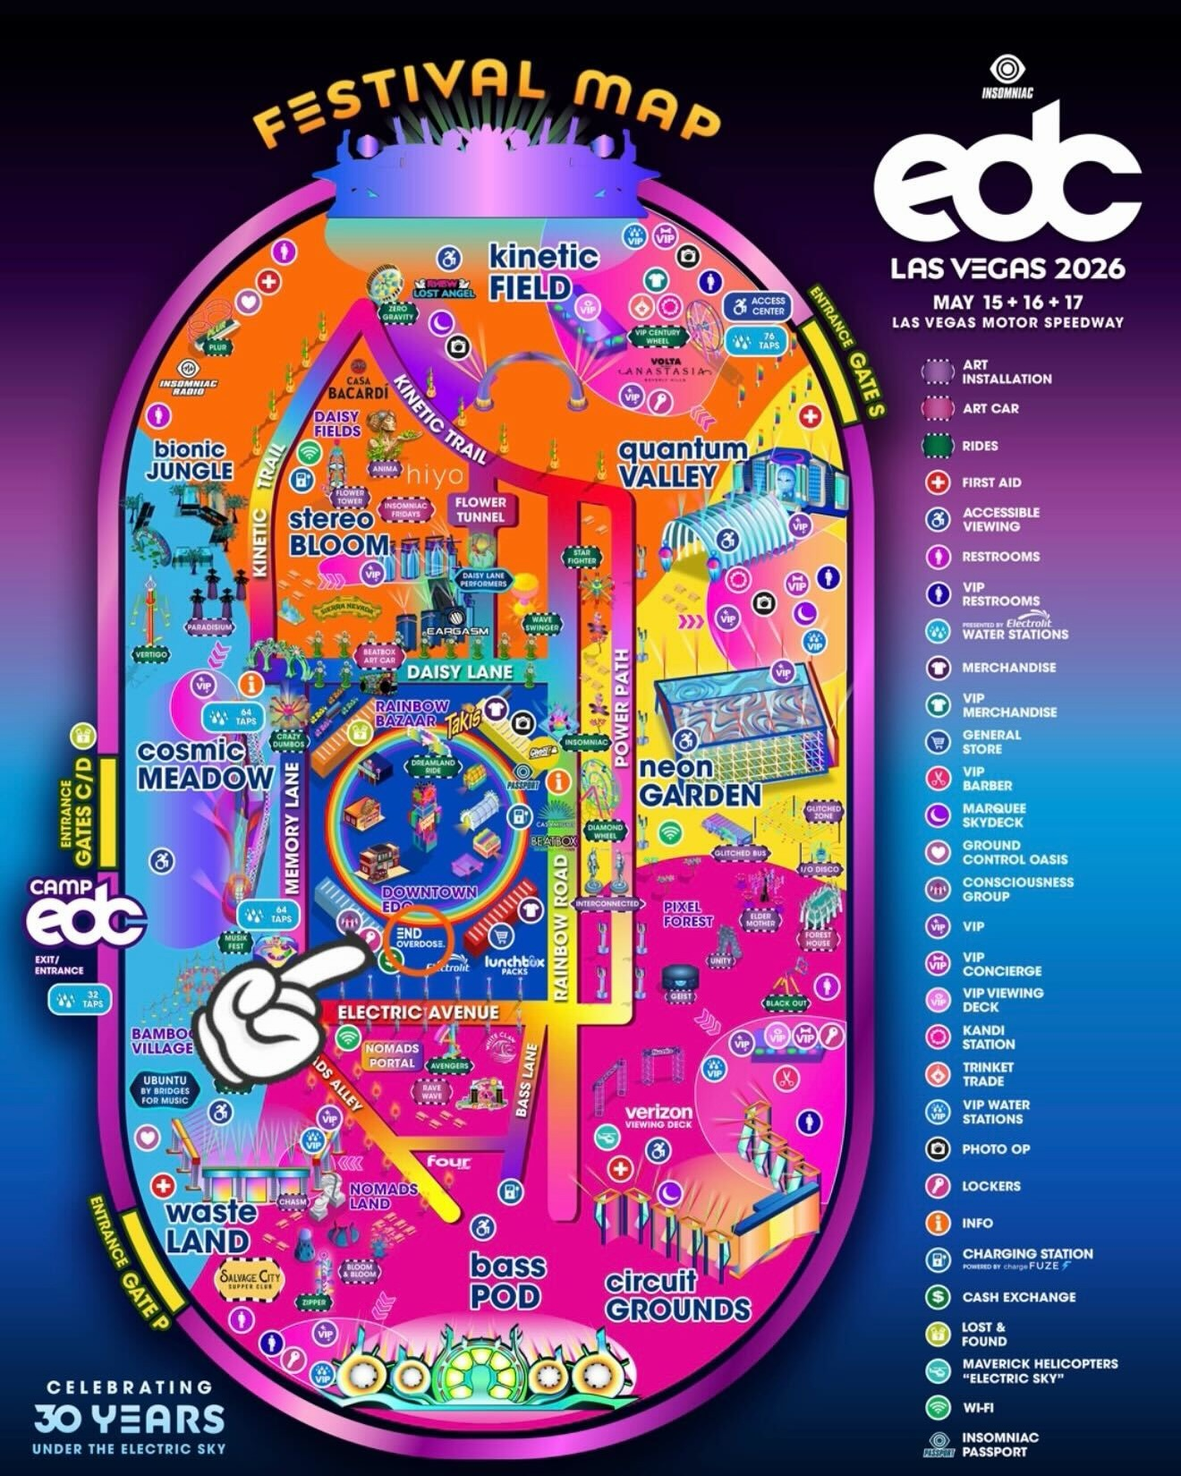
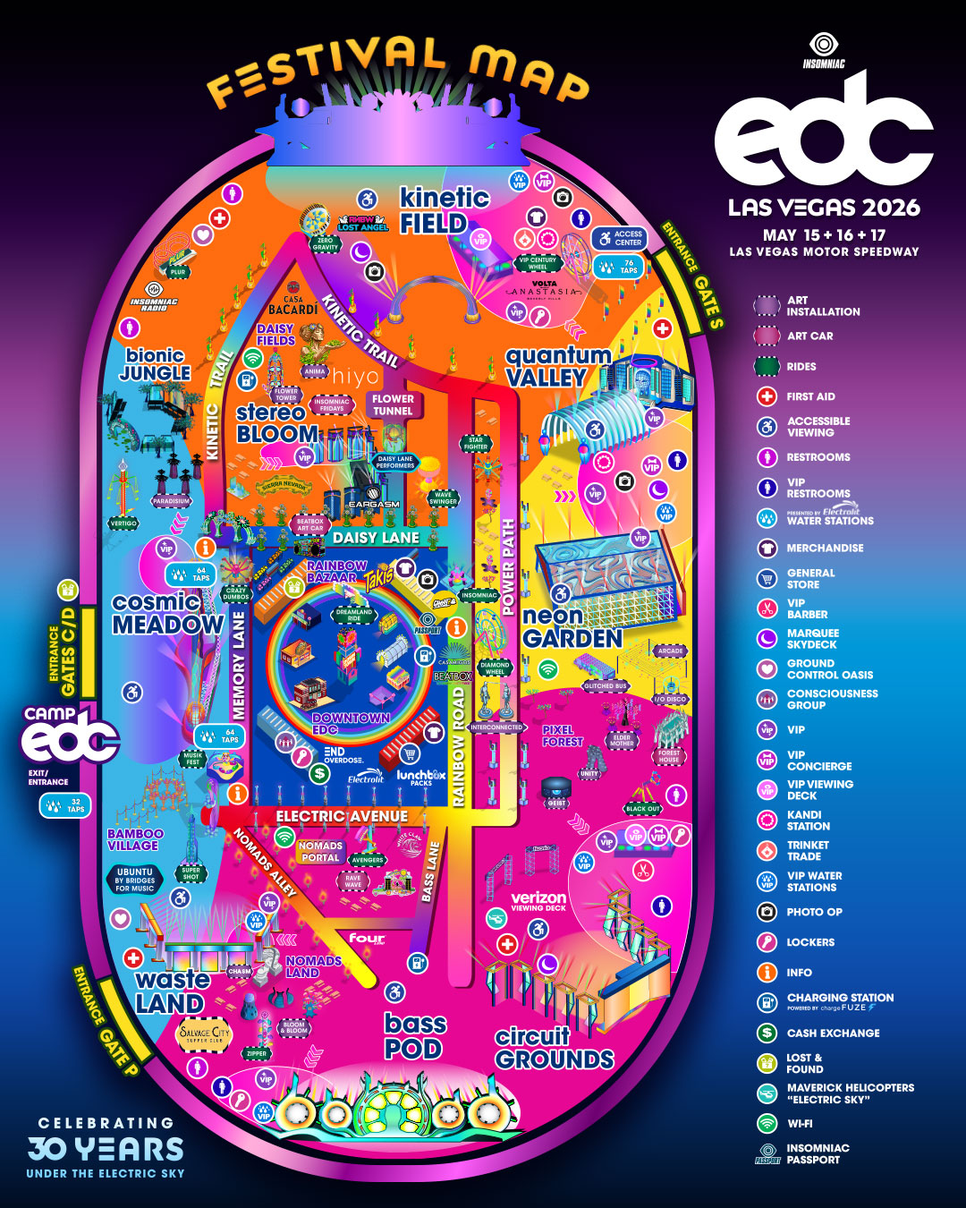
fix(map): EDC pins measured off the poster; anchors proven wrong (v238) (#36)
* feat(data): multi-festival wave 1 — five retrospective 2026 builds (v237)

Onboards Ultra Miami, Governors Ball, Summerfest, Lollapalooza and Outside
Lands at full EDC-schema depth: 1,005 set times across 36 stages, all
available: true, no provisional flags. Every one of these festivals is in the
past, so the whole data layer is published historical fact.

Sourcing is primary wherever it exists. Ultra, Gov Ball, Lolla and Summerfest
come from the festivals' own schedule graphics; Outside Lands' official lineup
page was taken down after the event, so that one is press capture, flagged as
secondary in its module header and cross-checked against three outlets.
Every non-obvious fact carries a source comment with an access date.

Two of the graphics record days that did not run as billed, and the data
follows what happened rather than what was announced: Gov Ball Saturday was
cut short by a thunderstorm (two sets cancelled, Stray Kids and Major Lazer
moved, Blood Orange pushed to Sunday), and Lollapalooza Saturday opened at
3pm on a weather hold.

Summerfest's graphics print start times only, but the block behind each name
is drawn to scale. Rather than assume a slot length, every block on all nine
graphics was measured: located by scanning its stage column for runs of
non-background pixels, calibrated against the start times printed on the same
graphic by least squares, then read off the bottom edge. 429 of 447 end times
[…]

diff --git a/data.jsx b/data.jsx
@@ -122,6 +122,24 @@ const FESTIVAL_CONFIG = {
     ovalCenter:    { lat: 36.27155,   lng: -115.01120 },
     // Full EDC build footprint (oval + dirt extension + south lots)
     festivalBounds:{ north: 36.27780, south: 36.26720, west: -115.01740, east: -115.00500 },
+
+    // MEASURED footprint: the speedway oval itself, as [lat, lng] taken from
+    // OpenStreetMap ways 27545411 + 1548033195 + 1548033196 (all named "Las
+    // Vegas Motor Speedway"), joined into a closed ring and decimated to 14
+    // points. Sanity check on the source: the joined ring measures 2,480 m =
+    // 1.541 mi against the nominal 1.5-mile superspeedway.
+    // Accessed 2026-08-28 via the Overpass API.
+    //
+    // This is REAL geometry, unlike the eyeballed boxes above, so scripts/
+    // verify.mjs uses it to assert that every gpsAnchor actually falls inside
+    // the venue. Three of EDC's nine currently do not — see the anchor gate.
+    footprint: [
+      [36.26972, -115.00983], [36.27166, -115.00693], [36.27282, -115.00580],
+      [36.27430, -115.00576], [36.27543, -115.00693], [36.27567, -115.00873],
+      [36.27535, -115.01057], [36.27469, -115.01232], [36.27360, -115.01363],
+      [36.27164, -115.01474], [36.27014, -115.01479], [36.26900, -115.01363],
+      [36.26874, -115.01182], [36.26951, -115.01015],
+    ],
   },
 
   // ⚠ PROVISIONAL anchors — pending official 2026 EDC site map
@@ -179,6 +197,15 @@ const FESTIVAL_CONFIG = {
   // the asset, 2026-08-27), so Plursky must not echo them a few pixels away.
   mapPrintsStageNames: true,
 
+  // The patron poster is an ILLUSTRATION, not a survey: measured 2026-08-28,
+  // the best-fit similarity of its oval onto the real LVMS oval still leaves a
+  // 27% worst-case radial residual, and it draws the grandstand at the bottom
+  // END of the oval where the real one runs along the NW SIDE (61 deg / 388 m
+  // apart). So STAGES x/y (art space) is NOT an affine image of gpsAnchors
+  // (world space), and any check that assumes it is will be circular.
+  // See ~/Plursky-private/EDC-MAP-REGISTRATION-2026-08-28.md
+  mapArtIsGeoregistered: false,
+
   // ── Named landmarks (walkways, districts, standalone art) ──
   // Places printed on the official patron map that are NOT stages, in the
   // same 0-100 grid the STAGES x/y use. Drawn behind the "Landmark labels"
@@ -192,23 +219,23 @@ const FESTIVAL_CONFIG = {
   // `landmarks` key now correctly renders none.
   landmarks: [
     // Walkways
-    { label: "KINETIC TRAIL",   x: 41, y: 28, rot: -55, color: "rgba(251,191,36,0.85)",  size: 6.8, ls: 1.6 },
-    { label: "MEMORY LANE",     x: 33, y: 55, rot: -90, color: "rgba(247,237,224,0.7)",  size: 6.8, ls: 1.6 },
-    { label: "POWER PATH",      x: 67, y: 38, rot: -90, color: "rgba(167,139,250,0.85)", size: 6.8, ls: 1.6 },
-    { label: "RAINBOW ROAD",    x: 65, y: 64, rot: -90, color: "rgba(244,114,182,0.85)", size: 6.8, ls: 1.6 },
-    { label: "ELECTRIC AVENUE", x: 50, y: 62, rot:   0, color: "rgba(252,211,77,0.95)",  size: 6.8, ls: 2.0 },
-    { label: "BASS LANE",       x: 56, y: 71, rot: -90, color: "rgba(96,165,250,0.85)",  size: 6.5, ls: 1.6 },
-    { label: "NOMADS ALLEY",    x: 22, y: 70, rot: -22, color: "rgba(247,237,224,0.7)",  size: 6.5, ls: 1.5 },
+    { label: "KINETIC TRAIL",   x: 38.3, y: 21.4, rot: -55, color: "rgba(251,191,36,0.85)",  size: 6.8, ls: 1.6 },
+    { label: "MEMORY LANE",     x: 25.0, y: 55.3, rot: -90, color: "rgba(247,237,224,0.7)",  size: 6.8, ls: 1.6 },
+    { label: "POWER PATH",      x: 51.8, y: 46.4, rot: -90, color: "rgba(167,139,250,0.85)", size: 6.8, ls: 1.6 },
+    { label: "RAINBOW ROAD",    x: 47.9, y: 67.1, rot: -90, color: "rgba(244,114,182,0.85)", size: 6.8, ls: 1.6 },
+    { label: "ELECTRIC AVENUE", x: 35.6, y: 71.9, rot:   0, color: "rgba(252,211,77,0.95)",  size: 6.8, ls: 2.0 },
+    { label: "BASS LANE",       x: 44.3, y: 82.1, rot: -90, color: "rgba(96,165,250,0.85)",  size: 6.5, ls: 1.6 },
+    { label: "NOMADS ALLEY",    x: 28.7, y: 77.1, rot: -22, color: "rgba(247,237,224,0.7)",  size: 6.5, ls: 1.5 },
     // Sub-areas / districts
-    { label: "DAISY FIELDS",    x: 40, y: 24, rot:   0, color: "rgba(252,211,77,0.85)",  size: 5.8, ls: 1.4 },
-    { label: "NOMADS LAND",     x: 38, y: 70, rot:   0, color: "rgba(252,211,77,0.95)",  size: 6.5, ls: 1.6 },
+    { label: "DAISY FIELDS",    x: 28.2, y: 22.4, rot:   0, color: "rgba(252,211,77,0.85)",  size: 5.8, ls: 1.4 },
+    { label: "NOMADS LAND",     x: 32.2, y: 87.2, rot:   0, color: "rgba(252,211,77,0.95)",  size: 6.5, ls: 1.6 },
     // Inside-plaza landmarks
-    { label: "RAINBOW BAZAAR",  x: 50, y: 47, rot:   0, color: "rgba(255,255,255,0.92)", size: 5.8, ls: 1.4 },
-    { label: "DOWNTOWN EDC",    x: 50, y: 55, rot:   0, color: "rgba(251,191,36,0.95)",  size: 6.5, ls: 1.6 },
+    { label: "RAINBOW BAZAAR",  x: 34.5, y: 46.2, rot:   0, color: "rgba(255,255,255,0.92)", size: 5.8, ls: 1.4 },
+    { label: "DOWNTOWN EDC",    x: 36.5, y: 61.8, rot:   0, color: "rgba(251,191,36,0.95)",  size: 6.5, ls: 1.6 },
     // Standalone landmarks
-    { label: "FLOWER TUNNEL",   x: 45, y: 33, rot:   0, color: "rgba(244,114,182,0.9)",  size: 6.2, ls: 1.5 },
-    { label: "PIXEL FOREST",    x: 78, y: 60, rot:   0, color: "rgba(244,114,182,0.85)", size: 6.2, ls: 1.5 },
-    { label: "NOMADS PORTAL",   x: 38, y: 76, rot:   0, color: "rgba(244,114,182,0.85)", size: 5.6, ls: 1.4 },
+    { label: "FLOWER TUNNEL",   x: 40.8, y: 29.2, rot:   0, color: "rgba(244,114,182,0.9)",  size: 6.2, ls: 1.5 },
+    { label: "PIXEL FOREST",    x: 58.3, y: 64.0, rot:   0, color: "rgba(244,114,182,0.85)", size: 6.2, ls: 1.5 },
+    { label: "NOMADS PORTAL",   x: 33.2, y: 75.6, rot:   0, color: "rgba(244,114,182,0.85)", size: 5.6, ls: 1.4 },
   ],
 };
 
@@ -583,65 +610,86 @@ function setActiveFestivalAndReload(id) {
 // Constrained to fit inside the tri-oval infield (inner radius ~31
 // around 50,50).
 const STAGES = [
-  { id: "kinetic", name: "Kinetic Field",   short: "KIN", color: "#e85d2e", x: 50, y: 22, size: 1.7,  desc: "Mainstage · headliners, sunrise sets",
+  { id: "kinetic", name: "Kinetic Field",   short: "KIN", color: "#e85d2e", x: 46.0, y: 9.2, size: 1.7,  desc: "Mainstage · headliners, sunrise sets",
     vibe: "Sunrise Cathedral",  vibeNote: "Park here for the sunrise set. Mainstage scale, screen on screen, and the only place worth standing still.",  peak: "03:00–05:30" },
-  { id: "quantum", name: "Quantum Valley",  short: "QNT", color: "#38bdf8", x: 70, y: 26, size: 1.1,
+  { id: "quantum", name: "Quantum Valley",  short: "QNT", color: "#38bdf8", x: 58.0, y: 25.5, size: 1.1,
     vibe: "Trance Family",      vibeNote: "Hands up for ten hours straight. ASOT crowd, melodic, weeping at 4 AM.",                                       peak: "01:00–05:00",
     desc: "Trance, psytrance" },
-  { id: "bionic",  name: "Bionic Jungle",   short: "BIO", color: "#14b8a6", x: 24, y: 26, size: 1.0,
+  { id: "bionic",  name: "Bionic Jungle",   short: "BIO", color: "#14b8a6", x: 16.5, y: 25.2, size: 1.0,
     vibe: "Underground Forest", vibeNote: "Tucked, leafy, intimate. Where tastemakers go between mainstage acts.",                                        peak: "00:00–04:00",
     desc: "House, tech house" },
-  { id: "stereo",  name: "Stereo Bloom",    short: "STR", color: "#22c55e", x: 38, y: 40, size: 0.95,
+  { id: "stereo",  name: "Stereo Bloom",    short: "STR", color: "#22c55e", x: 28.7, y: 31.3, size: 0.95,
     vibe: "Deepest Crowd",      vibeNote: "Smaller stage, heavier heads. Tech house with a real ear in the crowd.",                                       peak: "23:30–03:30",
     desc: "Tech house, underground" },
-  { id: "cosmic",  name: "Cosmic Meadow",   short: "CSM", color: "#fbbf24", x: 14, y: 52, size: 1.2,
+  { id: "cosmic",  name: "Cosmic Meadow",   short: "CSM", color: "#fbbf24", x: 17.4, y: 51.2, size: 1.2,
     vibe: "Wide-Open Vibe",     vibeNote: "Open-air, art cars, room to breathe. Best stage to wander in and out of.",                                     peak: "22:00–02:00",
     desc: "Open-air · big room, legends" },
-  { id: "neon",    name: "Neon Garden",     short: "NEN", color: "#ec4899", x: 74, y: 53, size: 1.05,
+  { id: "neon",    name: "Neon Garden",     short: "NEN", color: "#ec4899", x: 57.9, y: 52.4, size: 1.05,
     vibe: "House Heads HQ",     vibeNote: "If you came for house, this is the room. Long blends, deep selectors, tightest crowd of the night.",            peak: "00:00–04:30",
     desc: "House, deep techno" },
-  { id: "waste",   name: "Wasteland",       short: "WST", color: "#f97316", x: 30, y: 72, size: 1.0,
+  { id: "waste",   name: "Wasteland",       short: "WST", color: "#f97316", x: 17.7, y: 90.1, size: 1.0,
     vibe: "Hard Dance Pit",     vibeNote: "Hardstyle, hardcore, raw. Bring earplugs you actually trust. The only stage where the BPM never drops.",        peak: "23:00–04:00",
     desc: "Dubstep, bass" },
-  { id: "basspod", name: "Basspod",         short: "BAS", color: "#2563eb", x: 48, y: 80, size: 1.05,
+  { id: "basspod", name: "Basspod",         short: "BAS", color: "#2563eb", x: 43.0, y: 94.7, size: 1.05,
     vibe: "Loudest Drops",      vibeNote: "Dubstep, riddim, headbang central. Kicks you can feel in your sternum from a quarter-mile out.",                peak: "23:00–03:30",
     desc: "Dubstep, hard bass" },
-  { id: "circuit", name: "Circuit Grounds", short: "CIR", color: "#1e40af", x: 68, y: 72, size: 1.15,
+  { id: "circuit", name: "Circuit Grounds", short: "CIR", color: "#1e40af", x: 57.2, y: 95.9, size: 1.15,
     vibe: "Techno Vault",       vibeNote: "Industrial techno temple. Drifters from Berghain feel at home. Lasers cut through fog like blades.",            peak: "01:00–05:00",
     desc: "Techno, big room" },
 ];
 
 const AMENITIES = [
-  { id: "a1", type: "water",  label: "Hydration",   x: 40, y: 40 },
-  { id: "a2", type: "water",  label: "Hydration",   x: 60, y: 60 },
-  { id: "a3", type: "water",  label: "Hydration",   x: 62, y: 38 },
-  { id: "a4", type: "food",   label: "Rainbow Bazaar",  x: 45, y: 48 },
-  { id: "a5", type: "med",    label: "Medic",       x: 55, y: 25 },
-  { id: "a6", type: "med",    label: "Medic",       x: 32, y: 70 },
-  { id: "a7", type: "toilet", label: "Restrooms",   x: 35, y: 58 },
-  { id: "a8", type: "toilet", label: "Restrooms",   x: 65, y: 68 },
-  { id: "a9", type: "art",    label: "Daisy Lane",  x: 50, y: 50 },
-  { id: "a10",type: "info",   label: "Info / Lost", x: 55, y: 45 },
+  // MEASURED off the official EDC LV 2026 patron map (edc-map-2026.jpg), not
+  // estimated. Every entry below is a badge that was located by template-
+  // matching the poster's own legend icons against detected icon discs, then
+  // confirmed by eye — see ~/Plursky-private/EDC-MAP-REGISTRATION-2026-08-28.md.
+  // The previous list was largely invented ("these track the obvious crowd
+  // arteries"), which is why it carried 2 restrooms against the poster's 6.
+  //
+  // Coordinates are the same 0-100 grid the STAGES x/y use, derived from the
+  // poster pixel position as x = px * 100/1080, y = px * 100/1080 - 12.5
+  // (the cover-fit extent of a 1080x1350 asset in the 100x100 box).
+  //
+  // NOTE the poster distinguishes GA from VIP for restrooms and water; both
+  // collapse to the app's single `toilet` / `water` type, with the tier kept
+  // in the label so the UI can say which is which.
 
-  // Phone-charging banks. EDC publishes "battery charging stations" on the
-  // Amenities page without exact coords, so these track the obvious crowd
-  // arteries (Rainbow Road + each major stage plaza).
-  { id: "ch1", type: "charge", label: "Charging — Rainbow Road",  x: 50, y: 55 },
-  { id: "ch2", type: "charge", label: "Charging — Kinetic Plaza", x: 48, y: 26 },
-  { id: "ch3", type: "charge", label: "Charging — Quantum Walk",  x: 64, y: 34 },
-  { id: "ch4", type: "charge", label: "Charging — Cosmic Walk",   x: 16, y: 56 },
-  { id: "ch5", type: "charge", label: "Charging — Basspod Plaza", x: 52, y: 76 },
-  { id: "ch6", type: "charge", label: "Charging — Circuit Plaza", x: 68, y: 70 },
+  // ── Restrooms (poster: 2 GA + 4 VIP badges) ──
+  { id: "wc1", type: "toilet", label: "Restrooms — Bionic Jungle",   x: 13.3, y: 21.4 },
+  { id: "wc2", type: "toilet", label: "Restrooms — Neon Garden",     x: 70.0, y: 69.7 },
+  { id: "wc3", type: "toilet", label: "VIP Restrooms — Kinetic",     x: 60.2, y: 10.1, tier: "VIP" },
+  { id: "wc4", type: "toilet", label: "VIP Restrooms — Quantum",     x: 70.2, y: 35.1, tier: "VIP" },
+  { id: "wc5", type: "toilet", label: "VIP Restrooms — Circuit",     x: 68.5, y: 81.2, tier: "VIP" },
+  { id: "wc6", type: "toilet", label: "VIP Restrooms — Basspod",     x: 23.0, y: 99.9, tier: "VIP" },
 
-  // Mobile Charging Lockers (Insomniac's official locker partner). 5 banks:
-  // GA on Rainbow Road, three VIP-only at stage VIPs, one inside Passport
-  // Lounge. Each contains a universal iPhone+Android charger.
-  // Source: secure.mobilecharginglockers.com — EDC LV 2026 listings.
-  { id: "lk1", type: "locker", label: "Lockers — Main Merch (GA)",      x: 50, y: 52, tier: "GA",       price: "$30 day · $90 / 3-day" },
-  { id: "lk2", type: "locker", label: "Lockers — VIP Kinetic",          x: 48, y: 18, tier: "VIP",      price: "$90 · sold out" },
-  { id: "lk3", type: "locker", label: "Lockers — VIP Circuit Grounds",  x: 72, y: 70, tier: "VIP",      price: "$90 / 3-day" },
-  { id: "lk4", type: "locker", label: "Lockers — VIP Basspod",          x: 52, y: 78, tier: "VIP",      price: "$90 / 3-day" },
-  { id: "lk5", type: "locker", label: "Lockers — Passport Lounge",      x: 78, y: 42, tier: "Passport", price: "$25 day · $75 / 3-day" },
+  // ── Water: droplet badges + the numbered "TAPS" refill banks ──
+  { id: "w1", type: "water", label: "VIP Water — Kinetic",     x: 53.7, y:  6.2, tier: "VIP" },
+  { id: "w2", type: "water", label: "76 Taps — Quantum",       x: 64.0, y: 15.2 },
+  { id: "w3", type: "water", label: "VIP Water — Neon",        x: 69.0, y: 40.6, tier: "VIP" },
+  { id: "w4", type: "water", label: "64 Taps — Cosmic Meadow", x: 19.4, y: 47.1 },
+  { id: "w5", type: "water", label: "64 Taps — Memory Lane",   x: 22.7, y: 63.7 },
+  { id: "w6", type: "water", label: "32 Taps — Camp EDC",      x:  6.7, y: 70.9 },
+  { id: "w7", type: "water", label: "VIP Water — Circuit",     x: 60.5, y: 76.7, tier: "VIP" },
+  { id: "w8", type: "water", label: "VIP Water — Wasteland",   x: 26.5, y: 82.8, tier: "VIP" },
+
+  // ── First aid ──
+  { id: "md1", type: "med", label: "First Aid — Kinetic",   x: 22.6, y: 10.1 },
+  { id: "md2", type: "med", label: "First Aid — Gate S",    x: 68.2, y: 21.4 },
+  { id: "md3", type: "med", label: "First Aid — Wasteland", x: 13.6, y: 86.7 },
+  { id: "md4", type: "med", label: "First Aid — Circuit",   x: 52.3, y: 84.8 },
+
+  // ── Charging (chargeFUZE banks) ──
+  { id: "ch1", type: "charge", label: "Charging — Stereo Bloom",    x: 25.5, y: 26.8 },
+  { id: "ch2", type: "charge", label: "Charging — Rainbow Road",    x: 43.9, y: 55.3 },
+  { id: "ch3", type: "charge", label: "Charging — Bass Lane",       x: 43.2, y: 87.1 },
+
+  // ── Info / lost & found ──
+  { id: "i1", type: "info", label: "Info",          x: 21.2, y: 44.1 },
+  { id: "i2", type: "info", label: "Lost & Found",  x:  7.0, y: 48.5 },
+
+  // ── Lockers · General store ──
+  { id: "lk1", type: "locker", label: "Lockers — Quantum Valley", x: 55.9, y: 20.2 },
+  { id: "f1",  type: "food",   label: "General Store — Downtown", x: 42.4, y: 65.5 },
 ];
 
 const AVATAR_START = { x: 50, y: 52 };

diff --git a/index.html b/index.html
@@ -312,35 +312,35 @@
       window.__USE_NATIVE_PICKER__ = true;
     }
   </script>
-  <script type="text/babel" src="ios-frame.jsx?v=v237"></script>
+  <script type="text/babel" src="ios-frame.jsx?v=v238"></script>
   <!-- Multi-festival wave 1. Plain .js (no JSX), so they load as normal scripts
        and are parsed before Babel even starts on the chain below. Each is an
        IIFE that registers itself on window.PLURSKY_FESTIVALS; data.jsx reads
        that map, so these MUST stay above it. Mirrored in sw.js's precache. -->
-  <script src="data/festivals/ultra-miami-2026.js?v=v237"></script>
-  <script src="data/festivals/governors-ball-2026.js?v=v237"></script>
-  <script src="data/festivals/summerfest-2026.js?v=v237"></script>
-  <script src="data/festivals/lollapalooza-2026.js?v=v237"></script>
-  <script src="data/festivals/outside-lands-2026.js?v=v237"></script>
-  <script type="text/babel" src="data.jsx?v=v237"></script>
-  <script type="text/babel" src="supabase.jsx?v=v237"></script>
-  <script type="text/babel" src="chrome.jsx?v=v237"></script>
-  <script type="text/babel" src="home.jsx?v=v237"></script>
-  <script type="text/babel" src="map.jsx?v=v237"></script>
-  <script type="text/babel" src="lineup.jsx?v=v237"></script>
-  <script type="text/babel" src="artist.jsx?v=v237"></script>
-  <script type="text/babel" src="photo-tag.jsx?v=v237"></script>
-  <script type="text/babel" src="spotify-api.jsx?v=v237"></script>
-  <script type="text/babel" src="recap-engine.jsx?v=v237"></script>
-  <script type="text/babel" src="spotify.jsx?v=v237"></script>
-  <script type="text/babel" src="app.jsx?v=v237"></script>
+  <script src="data/festivals/ultra-miami-2026.js?v=v238"></script>
+  <script src="data/festivals/governors-ball-2026.js?v=v238"></script>
+  <script src="data/festivals/summerfest-2026.js?v=v238"></script>
+  <script src="data/festivals/lollapalooza-2026.js?v=v238"></script>
+  <script src="data/festivals/outside-lands-2026.js?v=v238"></script>
+  <script type="text/babel" src="data.jsx?v=v238"></script>
+  <script type="text/babel" src="supabase.jsx?v=v238"></script>
+  <script type="text/babel" src="chrome.jsx?v=v238"></script>
+  <script type="text/babel" src="home.jsx?v=v238"></script>
+  <script type="text/babel" src="map.jsx?v=v238"></script>
+  <script type="text/babel" src="lineup.jsx?v=v238"></script>
+  <script type="text/babel" src="artist.jsx?v=v238"></script>
+  <script type="text/babel" src="photo-tag.jsx?v=v238"></script>
+  <script type="text/babel" src="spotify-api.jsx?v=v238"></script>
+  <script type="text/babel" src="recap-engine.jsx?v=v238"></script>
+  <script type="text/babel" src="spotify.jsx?v=v238"></script>
+  <script type="text/babel" src="app.jsx?v=v238"></script>
 
   <script>
 
     // Build version stamp â€” bumped on every deploy that changes app behaviour.
     // If the running tab's stored version doesn't match, force a full reload
     // (bypassing browser HTTP cache that GH-Pages serves with max-age=600).
-    const APP_VERSION = 'v237';
+    const APP_VERSION = 'v238';
     try {
       const stored = localStorage.getItem('app_version');
       if (stored && stored !== APP_VERSION) {
@@ -361,11 +361,11 @@
     if ('serviceWorker' in navigator) {
       caches.keys().then(keys =>
         Promise.all(
-          keys.filter(k => k !== 'plursky-v237' && !k.startsWith('plursky-tiles-'))
+          keys.filter(k => k !== 'plursky-v238' && !k.startsWith('plursky-tiles-'))
               .map(k => caches.delete(k))
         )
       ).then(() =>
-        navigator.serviceWorker.register('./sw.js?v=v237', { updateViaCache: 'none' })
+        navigator.serviceWorker.register('./sw.js?v=v238', { updateViaCache: 'none' })
           .then(reg => { try { reg.update(); } catch {} })
       );
 

diff --git a/map.jsx b/map.jsx
@@ -3266,17 +3266,38 @@ function mapToGps(x, y) {
 }
 
 // ── Official-map (poster) geo-anchoring ───────────────────────
-// The official patron map is authored against the SAME 0-100 grid the stage
-// x/y live on, so mapToGps() already knows how to place it in the world. The
-// only subtlety is HOW MUCH of the image the 0-100 box covers.
+// The stage x/y ARE measured against this poster (as of 2026-08-28 they are
+// read straight off it), so the 0-100 grid and the artwork agree by
+// construction. What does NOT follow — and what the previous version of this
+// comment asserted — is that mapToGps() therefore "knows how to place it in
+// the world". IT DOES NOT, for EDC.
+//
+// MEASURED 2026-08-28 against OSM's LVMS geometry (the joined oval ring comes
+// to 2,480 m = 1.541 mi against the nominal 1.5-mile superspeedway, so the
+// ground truth is sound):
+//   * The poster is an ILLUSTRATION, not a survey. Best-fit similarity of its
+//     oval onto the real one still leaves a 7.5% mean / 27.2% worst radial
+//     residual (~29 m / ~104 m at the 382 m mean radius).
+//   * At that best fit the grandstand the poster draws at the BOTTOM of the
+//     oval lands on world bearing 52 deg, while the real grandstand (OSM
+//     "Section 1".."Section 4") centres on bearing 351 deg — 61 deg, or 388 m,
+//     apart. Two independent cues (oval shape/axis vs. a named landmark)
+//     disagree irreconcilably, so no rotation registers the poster.
+// Consequence: poster space and world space are DIFFERENT SPACES for EDC.
+// Keep them decoupled. x/y answers "where on the art"; gpsAnchors answers
+// "where on the planet", and photo-tag.jsx reads gpsAnchors DIRECTLY (not via
+// this affine) precisely so a bad affine cannot mis-tag a photo.
+// Full write-up: ~/Plursky-private/EDC-MAP-REGISTRATION-2026-08-28.md
+//
+// The remaining subtlety here is HOW MUCH of the image the 0-100 box covers.
 //
 // TopDownMap draws it as <image x=0 y=0 width=100 height=100
 // preserveAspectRatio="xMidYMid slice"> — "slice" means COVER: scale until the
 // short edge fills, centre, crop the overflow. Three of the five assets are
 // deliberately square (acl-park 1708², ef-forest 1200², lostlands 1400²) so
 // cover is exact and the extent is the plain 0-100 box. Two are NOT:
-// edc-map-2026.jpg is 1320×1649 and edco-tinker-2026.jpg is 960×1200, both
-// ~0.80 aspect, so the SVG crops ~12.5% off the top AND bottom.
+// edc-map-2026.jpg is 1080×1350 and edco-tinker-2026.jpg is 960×1200, both
+// 0.80 aspect, so the SVG crops 12.5% off the top AND bottom.
 //
 // MapLibre's `image` source does no cropping — it stretches the WHOLE image
 // into the quad it is given. Feeding it the plain 0-100 corners would squash

diff --git a/app.jsx b/app.jsx
@@ -853,7 +853,7 @@ class RootErrorBoundary extends React.Component {
         stack:   err?.stack?.slice(0, 4000) || null,
         compStack: info?.componentStack?.slice(0, 2000) || null,
         ts: new Date().toISOString(),
-        version: "v237",
+        version: "v238",
       }));
     } catch {}
   }
@@ -886,7 +886,7 @@ class RootErrorBoundary extends React.Component {
           fontFamily: "Geist Mono, monospace", fontSize: 10, letterSpacing: 1.4, fontWeight: 700,
         }}>RELOAD</button>
         <div style={{ marginTop: 22, fontFamily: "Geist Mono, monospace", fontSize: 10, letterSpacing: 1.2, color: "rgba(26,18,13,0.45)" }}>
-          PLURSKY · v237
+          PLURSKY · v238
         </div>
       </div>
     );

diff --git a/sw.js b/sw.js
@@ -1,9 +1,9 @@
-const CACHE      = 'plursky-v237';
+const CACHE      = 'plursky-v238';
 // Tile cache is intentionally separate from the app cache so map tiles
 // survive APP_VER bumps. Tiles for a given (z, x, y) are immutable, so
 // cache-first forever is correct.
 const TILE_CACHE = 'plursky-tiles-v1';
-const APP_VER    = 'v237';
+const APP_VER    = 'v238';
 
 // Own-origin app files â€” versioned to match what index.html requests.
 // addAll is atomic so a missed own-origin file fails the install fast.
